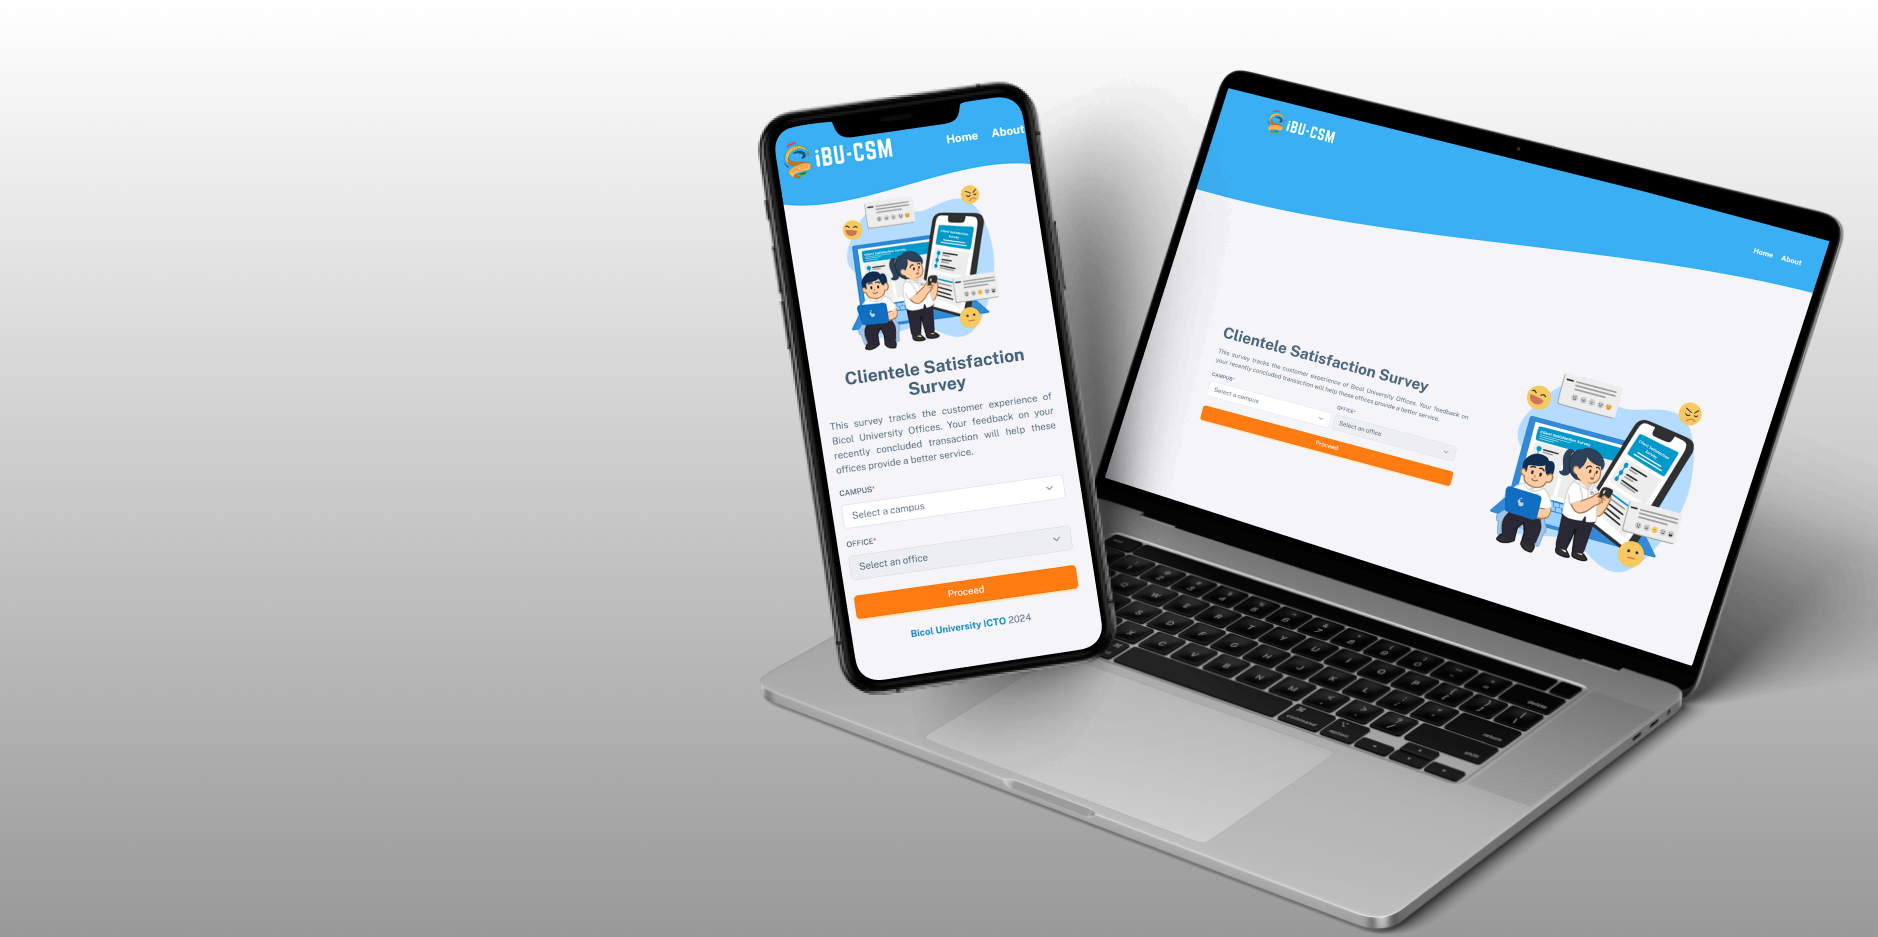
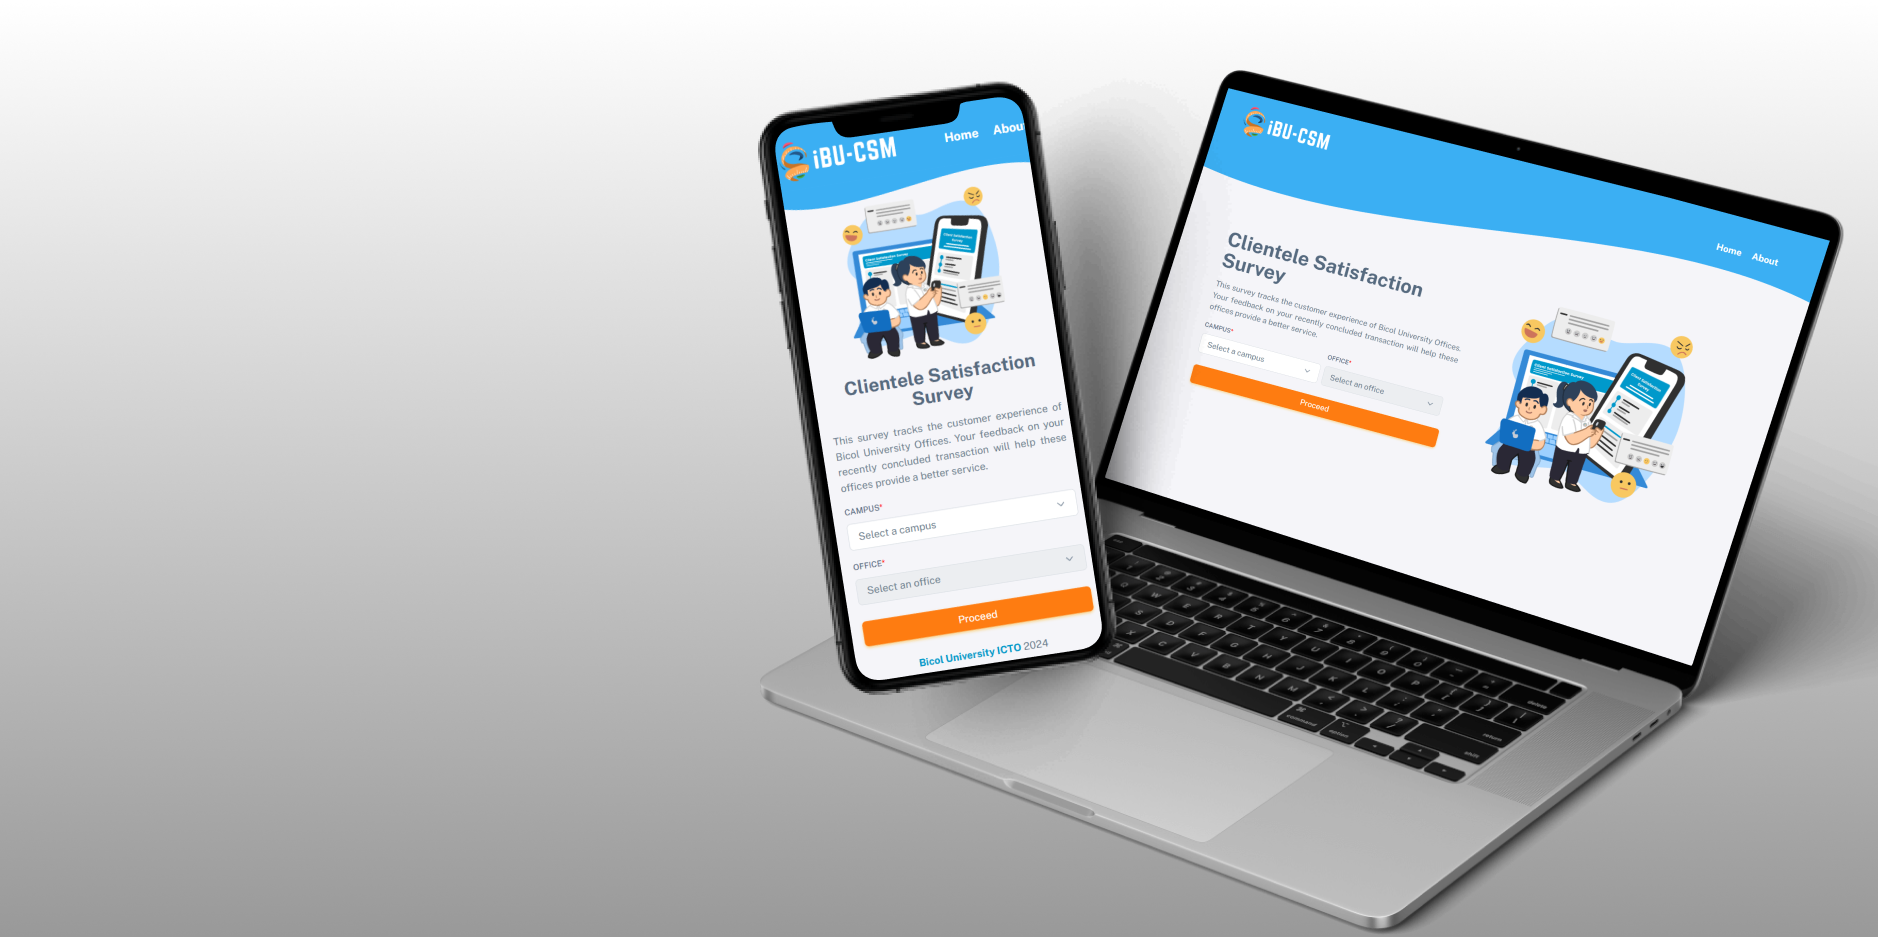
Remove font-size declaration from overlay-text in styles.css

diff --git a/vendor/css/styles.css b/vendor/css/styles.css
@@ -52,7 +52,7 @@
 .overlay-text {
   padding: 2rem;
   color: white;
-  font-size: 20px;
+  /* font-size: 20px; */
   text-align: start;
 }
 
